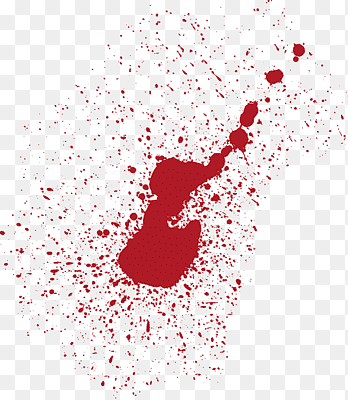
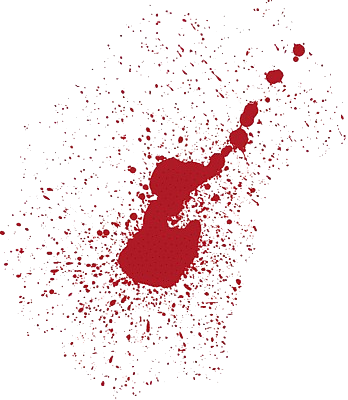
change falque1 image

diff --git a/main.py b/main.py
@@ -62,6 +62,8 @@ def menu():
 
 
 
+
+
 # def show_random_object():
     # créé un ojet fruit avec une image, une lettre, une taille (variable : image, letter, size(width, height))
     # cet objet à une coordonée de départ RANDOM, une direction RANDOM et une vitesse (variable : x, y, speed)
@@ -112,13 +114,22 @@ def game_over():
 
 
 
+# DISPLAYSURF = pygame.display.set_mode((WIDTH, HEIGHT))
+# pygame.display.set_caption('Fruit Slicer')
+# background_image_game = pygame.image.load("assets/massacre.jpg")
+# background_image_game = pygame.transform.scale(background_image_game, (WIDTH, HEIGHT)) 
+# DISPLAYSURF.blit(background_image_game, (0, 0))
+
 DISPLAYSURF = pygame.display.set_mode((WIDTH, HEIGHT))
 pygame.display.set_caption('Fruit Slicer')
-background_image_game = pygame.image.load("assets/massacre.jpg")
+background_image_game = pygame.image.load("assets/massacre_tronconneuse.jpg")
 background_image_game = pygame.transform.scale(background_image_game, (WIDTH, HEIGHT)) 
+
 DISPLAYSURF.blit(background_image_game, (0, 0))
 
-
+blood_image = pygame.image.load("assets/flaque1.png").convert_alpha()
+blood_image = pygame.transform.scale(blood_image, (300, 300))
+DISPLAYSURF.blit(blood_image, (50, 50))
 # current_score = 200
 def display_score(current_score):
     score = f"score : {current_score}"
